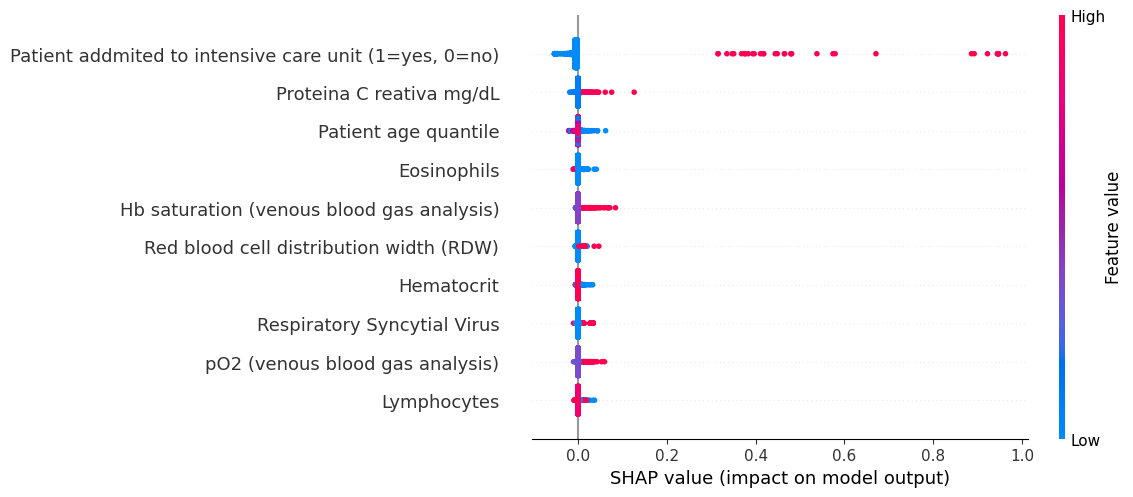
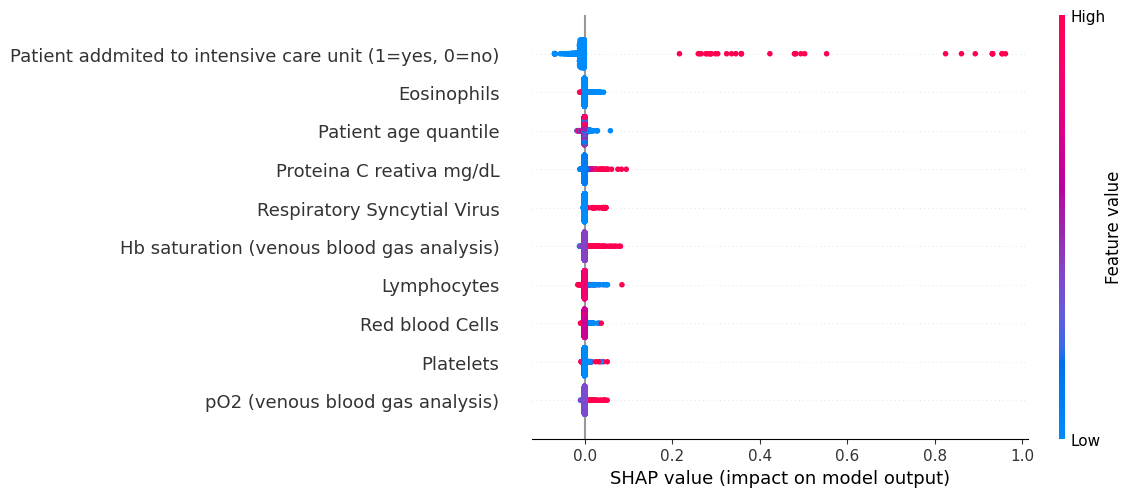
teste final

diff --git a/questao1_ana_marcella.py b/questao1_ana_marcella.py
@@ -27,13 +27,25 @@ dataset= dataset.replace(['present'], float(1))
 dataset = dataset.replace(['normal'], float(0))
 dataset = dataset.replace(['Não Realizado'], float(-1))
 dataset = dataset.replace(['<1000'], float(random.uniform(0,999)))
-
+dataset = dataset.replace(['clear'], float(1))
+dataset = dataset.replace(['altered_coloring'], float(2))
+dataset = dataset.replace(['lightly_cloudy'], float(3))
+dataset = dataset.replace(['cloudy'], float(4))
+dataset = dataset.replace(['light_yellow'], float(1))
+dataset = dataset.replace(['citrus_yellow'], float(2))
+dataset = dataset.replace(['yellow'], float(3))
+dataset = dataset.replace(['orange'], float(4))
+dataset = dataset.replace(['Ausentes'], float(-1))
+dataset = dataset.replace(['Urato Amorfo --+'], float(1))
+dataset = dataset.replace(['Urato Amorfo +++'], float(2))
+dataset = dataset.replace(['Oxalato de Cálcio -++'], float(3))
+dataset = dataset.replace(['Oxalato de Cálcio +++'], float(4))
 
 #Preenchimento de valores vazios
 dataset=dataset.fillna(dataset.median())
 dataset=dataset.fillna(0)
 
-# print(dataset["D-Dimer"].unique())
+# print(dataset["Urine - Color"].unique())
 
 #Setando valores de Feature set (conjunto de variáveis) e labels
 X = dataset.loc[:, ["Patient age quantile", "Patient addmited to regular ward (1=yes, 0=no)", "Patient addmited to semi-intensive unit (1=yes, 0=no)", "Patient addmited to intensive care unit (1=yes, 0=no)", "Hematocrit", "Hemoglobin", "Platelets", "Mean platelet volume ", "Red blood Cells", "Lymphocytes", 
@@ -44,7 +56,7 @@ X = dataset.loc[:, ["Patient age quantile", "Patient addmited to regular ward (1
         "Total CO2 (venous blood gas analysis)", "pH (venous blood gas analysis)", "HCO3 (venous blood gas analysis)", "Rods #", "Segmented", "Promyelocytes", "Metamyelocytes", "Myelocytes", "Myeloblasts", "Urine - Esterase", "Urine - pH", "Urine - Yeasts", "Urine - Granular cylinders",
         "Urine - Hyaline cylinders", "Urine - Hemoglobin", "Urine - Bile pigments", "Urine - Ketone Bodies", "Urine - Nitrite", "Urine - Urobilinogen", "Urine - Protein","Urine - Density", "Relationship (Patient/Normal)", "International normalized ratio (INR)", "Urine - Red blood cells",
         "Lactic Dehydrogenase", "Creatine phosphokinase (CPK) ", "Ferritin", "Vitamin B12", "Arterial Lactic Acid", "Lipase dosage", "pCO2 (arterial blood gas analysis)", "Base excess (arterial blood gas analysis)", "pH (arterial blood gas analysis)", "Total CO2 (arterial blood gas analysis)",
-        "HCO3 (arterial blood gas analysis)", "pO2 (arterial blood gas analysis)", "Arteiral Fio2", "Phosphor", "ctO2 (arterial blood gas analysis)", "Urine - Leukocytes", "D-Dimer", "Mycoplasma pneumoniae", "Urine - Sugar", "Partial thromboplastin time (PTT) ", "Prothrombin time (PT), Activity"]]
+        "HCO3 (arterial blood gas analysis)", "pO2 (arterial blood gas analysis)", "Arteiral Fio2", "Phosphor", "ctO2 (arterial blood gas analysis)", "Urine - Leukocytes", "D-Dimer", "Mycoplasma pneumoniae", "Urine - Sugar", "Partial thromboplastin time (PTT) ", "Prothrombin time (PT), Activity", "Urine - Aspect", "Urine - Crystals", "Urine - Color"]]
 
 y = dataset.loc[:, "SARS-Cov-2 exam result"]
 
@@ -88,9 +100,9 @@ nomes = ["Patient age quantile", "Patient addmited to regular ward (1=yes, 0=no)
         "Total CO2 (venous blood gas analysis)", "pH (venous blood gas analysis)", "HCO3 (venous blood gas analysis)", "Rods #", "Segmented", "Promyelocytes", "Metamyelocytes", "Myelocytes", "Myeloblasts", "Urine - Esterase", "Urine - pH", "Urine - Yeasts", "Urine - Granular cylinders",
         "Urine - Hyaline cylinders", "Urine - Hemoglobin", "Urine - Bile pigments", "Urine - Ketone Bodies", "Urine - Nitrite", "Urine - Urobilinogen", "Urine - Protein","Urine - Density", "Relationship (Patient/Normal)", "International normalized ratio (INR)", "Urine - Red blood cells",
         "Lactic Dehydrogenase", "Creatine phosphokinase (CPK) ", "Ferritin", "Vitamin B12", "Arterial Lactic Acid", "Lipase dosage", "pCO2 (arterial blood gas analysis)", "Base excess (arterial blood gas analysis)", "pH (arterial blood gas analysis)", "Total CO2 (arterial blood gas analysis)",
-        "HCO3 (arterial blood gas analysis)", "pO2 (arterial blood gas analysis)", "Arteiral Fio2", "Phosphor", "ctO2 (arterial blood gas analysis)", "Urine - Leukocytes", "D-Dimer", "Mycoplasma pneumoniae", "Urine - Sugar", "Partial thromboplastin time (PTT) ", "Prothrombin time (PT), Activity"]
+        "HCO3 (arterial blood gas analysis)", "pO2 (arterial blood gas analysis)", "Arteiral Fio2", "Phosphor", "ctO2 (arterial blood gas analysis)", "Urine - Leukocytes", "D-Dimer", "Mycoplasma pneumoniae", "Urine - Sugar", "Partial thromboplastin time (PTT) ", "Prothrombin time (PT), Activity",
+        "Urine - Aspect", "Urine - Crystals", "Urine - Color"]
 
 #Plota gráfico, salvo na mesma pasta do código
 shap.summary_plot(shap_values[1], X_train, show=False, max_display=10, feature_names=nomes)
 plt.savefig('melhores_exames_questao1.png', bbox_inches='tight')
-

diff --git a/questao2_ana_marcella.py b/questao2_ana_marcella.py
@@ -27,6 +27,19 @@ dataset= dataset.replace(['present'], float(1))
 dataset = dataset.replace(['normal'], float(0))
 dataset = dataset.replace(['Não Realizado'], float(-1))
 dataset = dataset.replace(['<1000'], float(random.uniform(0,999)))
+dataset = dataset.replace(['clear'], float(1))
+dataset = dataset.replace(['altered_coloring'], float(2))
+dataset = dataset.replace(['lightly_cloudy'], float(3))
+dataset = dataset.replace(['cloudy'], float(4))
+dataset = dataset.replace(['light_yellow'], float(1))
+dataset = dataset.replace(['citrus_yellow'], float(2))
+dataset = dataset.replace(['yellow'], float(3))
+dataset = dataset.replace(['orange'], float(4))
+dataset = dataset.replace(['Ausentes'], float(-1))
+dataset = dataset.replace(['Urato Amorfo --+'], float(1))
+dataset = dataset.replace(['Urato Amorfo +++'], float(2))
+dataset = dataset.replace(['Oxalato de Cálcio -++'], float(3))
+dataset = dataset.replace(['Oxalato de Cálcio +++'], float(4))
 
 #Concatena os valores das colunas referentes a tratamento em enfermaria, na unidade semi-intensiva e na unidade intensiva e armazena em outro dataframe
 df1 = dataset['Patient addmited to regular ward (1=yes, 0=no)'].map(str) + dataset['Patient addmited to semi-intensive unit (1=yes, 0=no)'].map(str) + dataset['Patient addmited to intensive care unit (1=yes, 0=no)'].map(str)
@@ -53,7 +66,8 @@ X = dataset.loc[:, ["Patient age quantile", "Patient addmited to regular ward (1
         "Total CO2 (venous blood gas analysis)", "pH (venous blood gas analysis)", "HCO3 (venous blood gas analysis)", "Rods #", "Segmented", "Promyelocytes", "Metamyelocytes", "Myelocytes", "Myeloblasts", "Urine - Esterase", "Urine - pH", "Urine - Yeasts", "Urine - Granular cylinders",
         "Urine - Hyaline cylinders", "Urine - Hemoglobin", "Urine - Bile pigments", "Urine - Ketone Bodies", "Urine - Nitrite", "Urine - Urobilinogen", "Urine - Protein","Urine - Density", "Relationship (Patient/Normal)", "International normalized ratio (INR)", "Urine - Red blood cells",
         "Lactic Dehydrogenase", "Creatine phosphokinase (CPK) ", "Ferritin", "Vitamin B12", "Arterial Lactic Acid", "Lipase dosage", "pCO2 (arterial blood gas analysis)", "Base excess (arterial blood gas analysis)", "pH (arterial blood gas analysis)", "Total CO2 (arterial blood gas analysis)",
-        "HCO3 (arterial blood gas analysis)", "pO2 (arterial blood gas analysis)", "Arteiral Fio2", "Phosphor", "ctO2 (arterial blood gas analysis)", "Urine - Leukocytes", "D-Dimer", "Mycoplasma pneumoniae", "Urine - Sugar", "Partial thromboplastin time (PTT) ", "Prothrombin time (PT), Activity"]]
+        "HCO3 (arterial blood gas analysis)", "pO2 (arterial blood gas analysis)", "Arteiral Fio2", "Phosphor", "ctO2 (arterial blood gas analysis)", "Urine - Leukocytes", "D-Dimer", "Mycoplasma pneumoniae", "Urine - Sugar", "Partial thromboplastin time (PTT) ", "Prothrombin time (PT), Activity",
+        "Urine - Aspect", "Urine - Crystals", "Urine - Color"]]
 y = dataset.loc[:, "Local de tratamento"]
 
 #Separando a porção de treino e de teste
@@ -97,7 +111,8 @@ nomes = ["Patient age quantile", "Patient addmited to regular ward (1=yes, 0=no)
         "Total CO2 (venous blood gas analysis)", "pH (venous blood gas analysis)", "HCO3 (venous blood gas analysis)", "Rods #", "Segmented", "Promyelocytes", "Metamyelocytes", "Myelocytes", "Myeloblasts", "Urine - Esterase", "Urine - pH", "Urine - Yeasts", "Urine - Granular cylinders",
         "Urine - Hyaline cylinders", "Urine - Hemoglobin", "Urine - Bile pigments", "Urine - Ketone Bodies", "Urine - Nitrite", "Urine - Urobilinogen", "Urine - Protein","Urine - Density", "Relationship (Patient/Normal)", "International normalized ratio (INR)", "Urine - Red blood cells",
         "Lactic Dehydrogenase", "Creatine phosphokinase (CPK) ", "Ferritin", "Vitamin B12", "Arterial Lactic Acid", "Lipase dosage", "pCO2 (arterial blood gas analysis)", "Base excess (arterial blood gas analysis)", "pH (arterial blood gas analysis)", "Total CO2 (arterial blood gas analysis)",
-        "HCO3 (arterial blood gas analysis)", "pO2 (arterial blood gas analysis)", "Arteiral Fio2", "Phosphor", "ctO2 (arterial blood gas analysis)", "Urine - Leukocytes", "D-Dimer", "Mycoplasma pneumoniae", "Urine - Sugar", "Partial thromboplastin time (PTT) ", "Prothrombin time (PT), Activity"]
+        "HCO3 (arterial blood gas analysis)", "pO2 (arterial blood gas analysis)", "Arteiral Fio2", "Phosphor", "ctO2 (arterial blood gas analysis)", "Urine - Leukocytes", "D-Dimer", "Mycoplasma pneumoniae", "Urine - Sugar", "Partial thromboplastin time (PTT) ", "Prothrombin time (PT), Activity",
+        "Urine - Aspect", "Urine - Crystals", "Urine - Color"]
 
 #Plota gráfico, salvo na mesma pasta do código
 shap.summary_plot(shap_values[1], X_train, show=False, max_display=10,feature_names=nomes)
